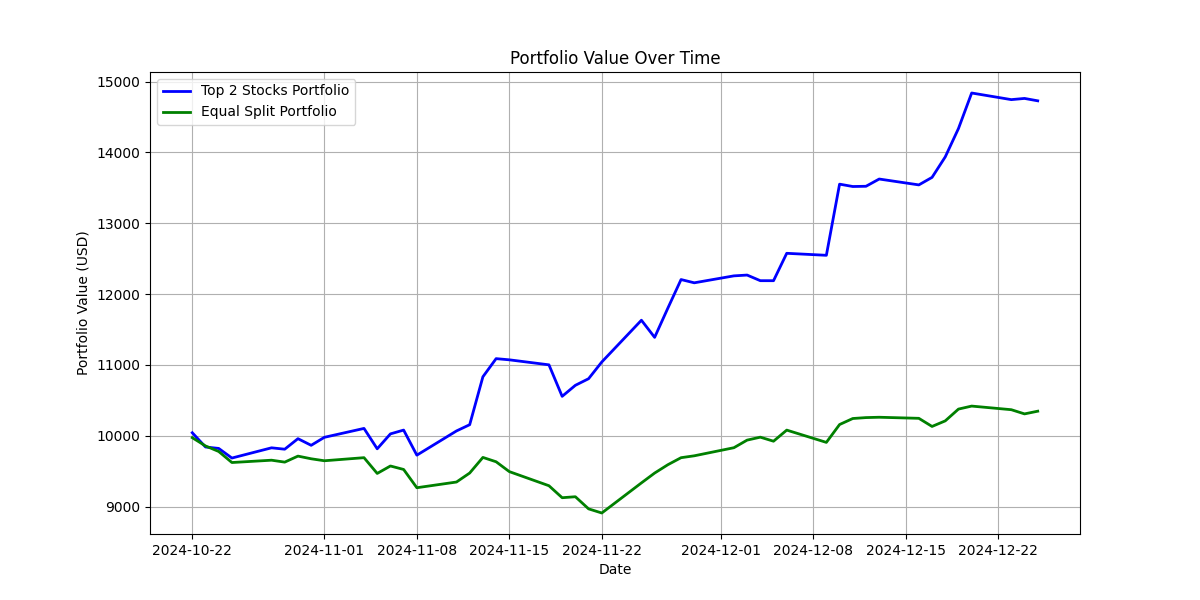
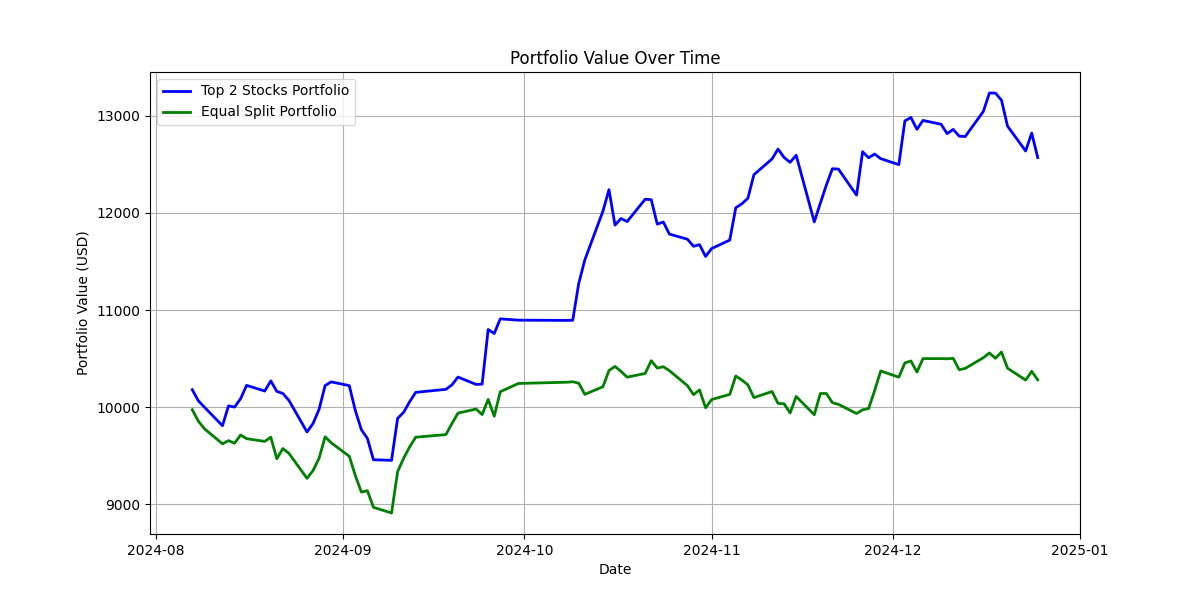
good with best model

diff --git a/ELOstock.py b/ELOstock.py
@@ -7,6 +7,20 @@ import matplotlib.pyplot as plt
 import random
 import os
 
+def plot_train_history(history, title):
+  loss = history.history['loss']
+  val_loss = history.history['val_loss']
+
+  epochs = range(len(loss))
+
+  plt.figure()
+  plt.xscale('log')
+  plt.plot(epochs, loss, 'b', label='Training loss')
+  plt.plot(epochs, val_loss, 'r', label='Validation loss')
+  plt.title(title)
+  plt.legend()
+  plt.savefig('/mnt/d/PriProjects/EloStock/tensorflow_history.png')
+  #plt.show()
 
 def set_random_seed():
     seed = 42
@@ -93,6 +107,7 @@ def build_model(input_shape):
     model.compile(optimizer=tf.keras.optimizers.RMSprop(learning_rate=0.0005), loss='mse', metrics=['mae'])
     return model
 
+
 # Main script
 if __name__ == "__main__":
     set_random_seed()
@@ -121,18 +136,29 @@ if __name__ == "__main__":
     target = scaler.fit_transform(target)  # Scale targets
 
     # Split data without shuffling (so that the order is preserved)
-    X_train, X_test, y_train, y_test, dates_train, dates_test = train_test_split(features, target, dates[1:], test_size=0.2, shuffle=False)
-    
+    X_train, X_test, y_train, y_test, dates_train, dates_test = train_test_split(features, target, dates[1:], test_size=0.4, shuffle=False)
+
+    #checkpoint_path = "training/best.keras"
+    checkpoint_path = "/mnt/d/PriProjects/EloStock/best_model.keras"
+    checkpoint_callback = tf.keras.callbacks.ModelCheckpoint(
+        filepath=checkpoint_path,
+        monitor="val_loss",
+        save_best_only=True,
+        mode="max"  # 'max' for maximizing the monitored metric
+    )
     # Build and train the model
     model = build_model(X_train.shape[1])
-    model.fit(X_train, y_train, epochs=200, batch_size=16, validation_split=0.1, verbose=1)
+    history =model.fit(X_train, y_train, epochs=300, batch_size=16, validation_split=0.1, verbose=1, callbacks=[checkpoint_callback])
+    
+    plot_train_history(history,'multi Step Training and validation loss')
+    best_model = tf.keras.models.load_model(checkpoint_path)
 
     # Test the model
-    test_loss, test_mae = model.evaluate(X_test, y_test)
+    test_loss, test_mae = best_model.evaluate(X_test, y_test)
     print(f"\nTest Loss: {test_loss:.4f}, Test MAE: {test_mae:.4f}")
     
     # Predict Elo ratings for test data
-    predictions = model.predict(X_test)
+    predictions = best_model.predict(X_test)
     
     # Simulate trading with $10,000 for top 2 stocks and equal split across all stocks
     initial_investment = 10000
